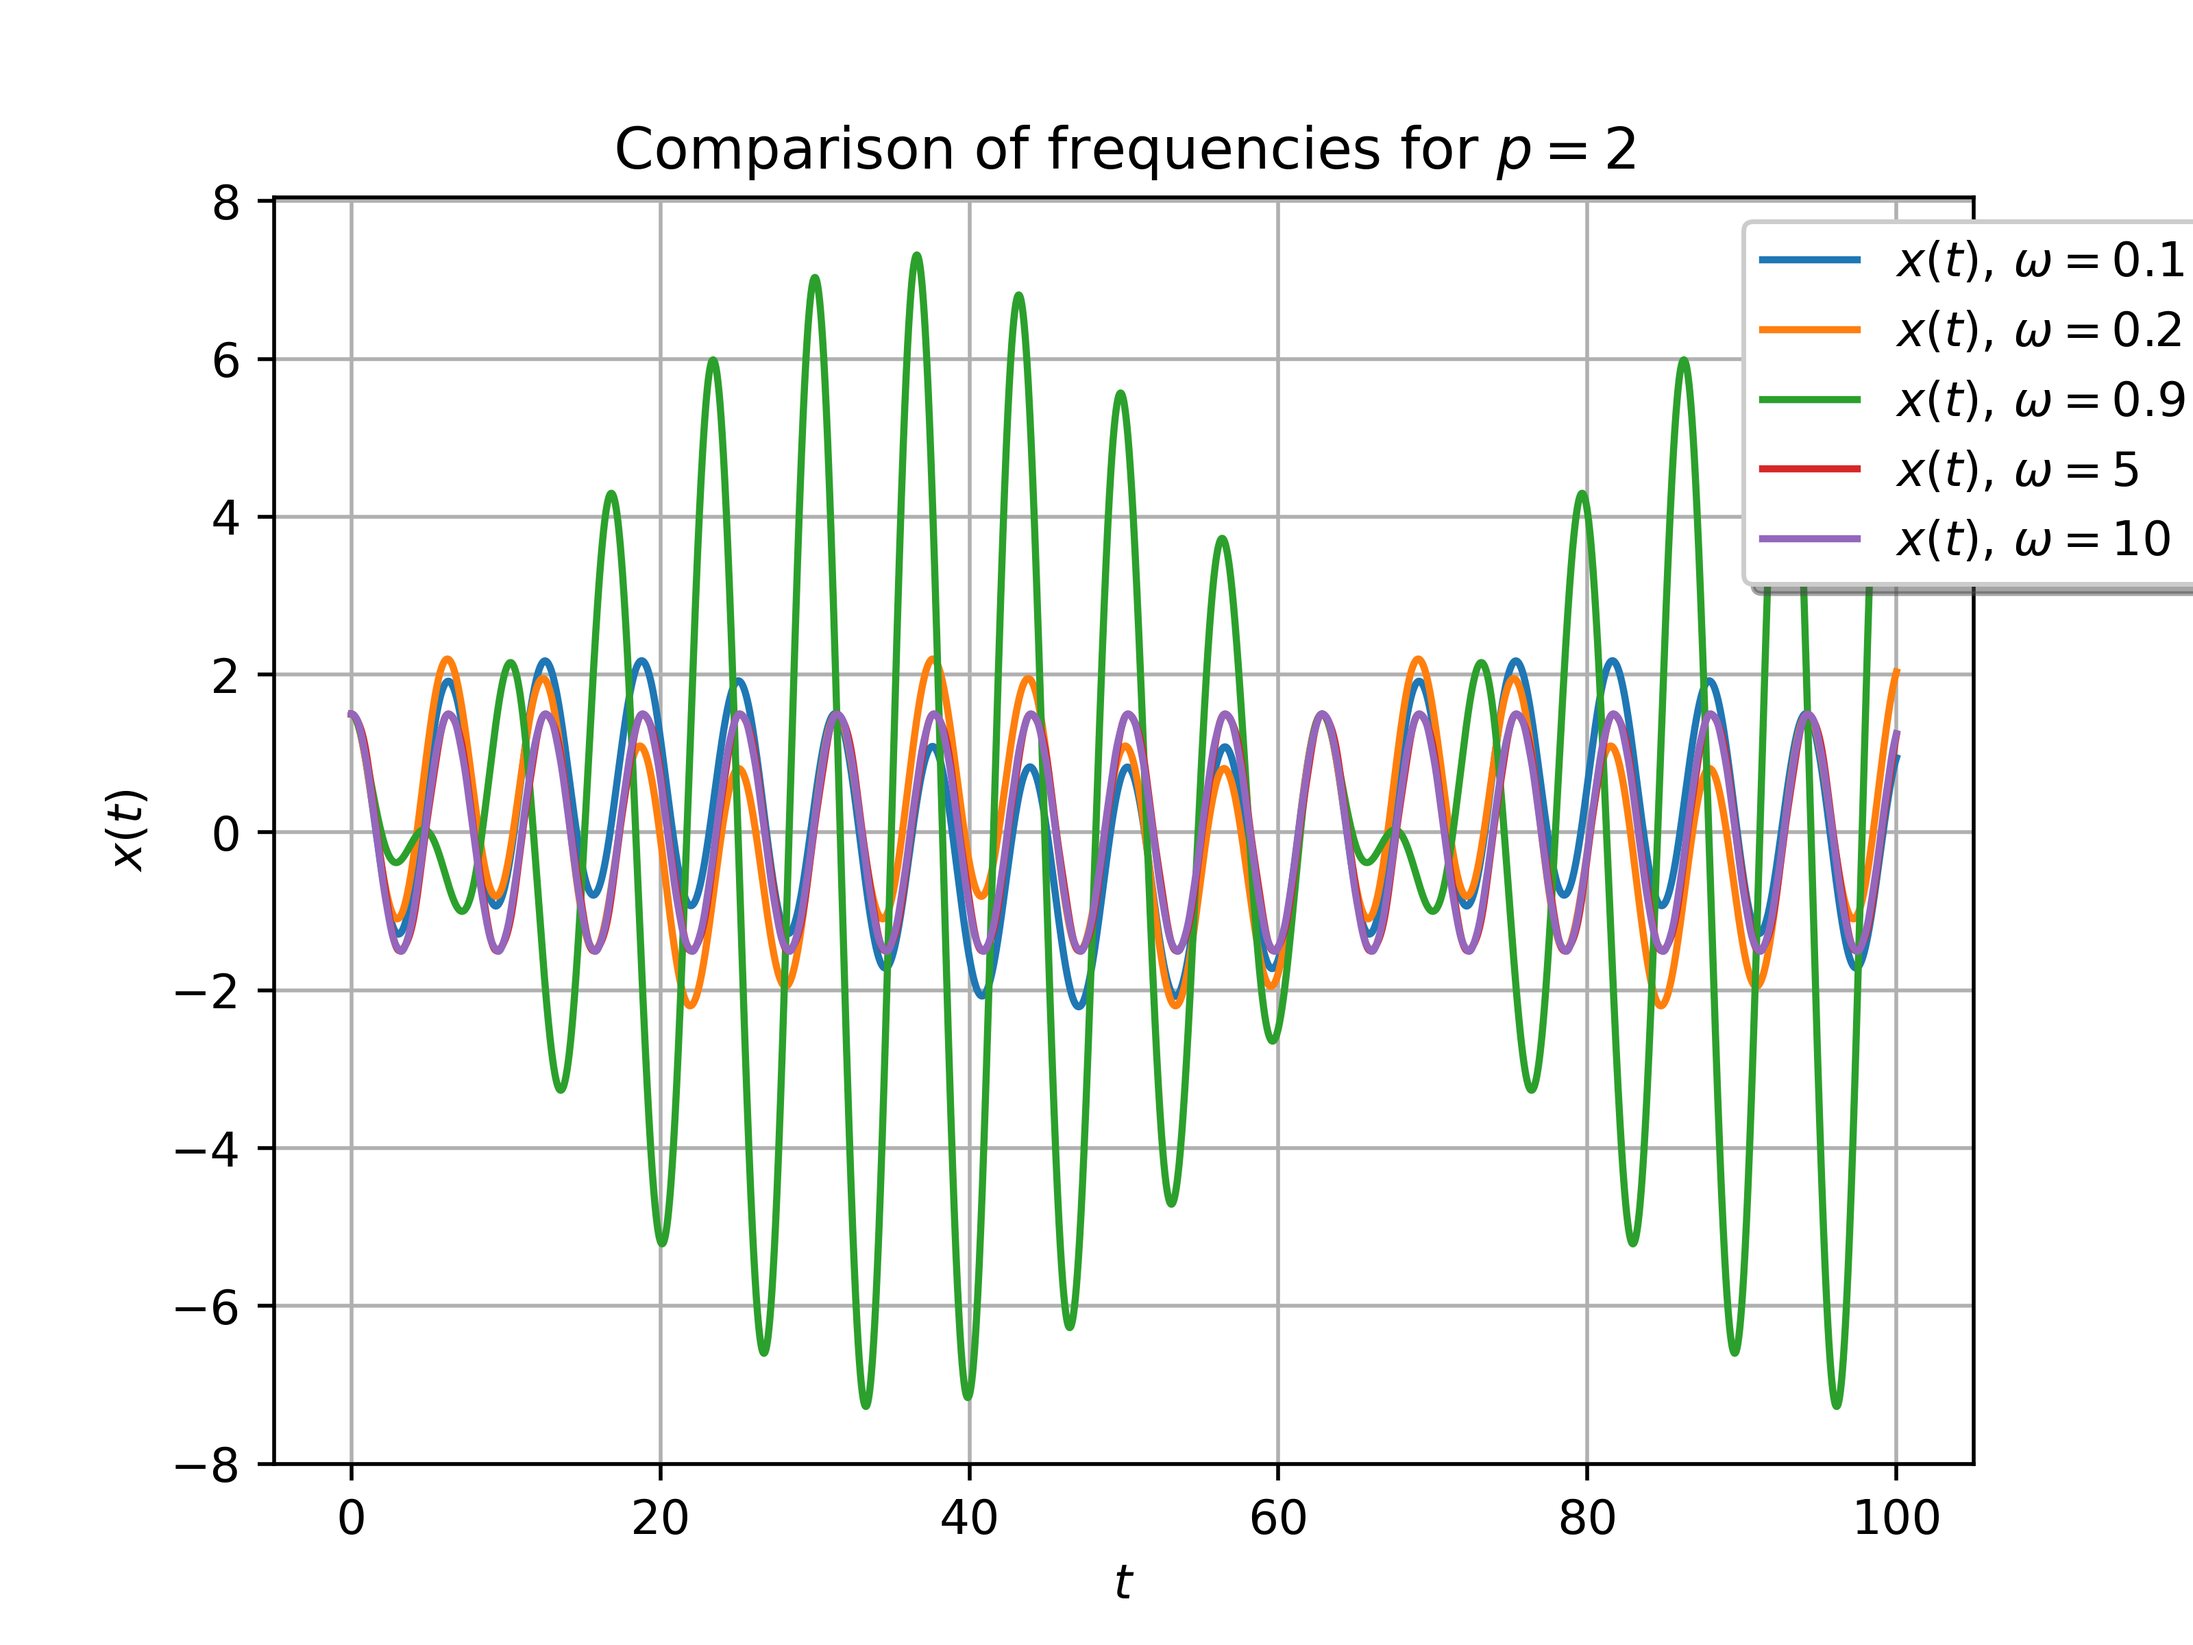
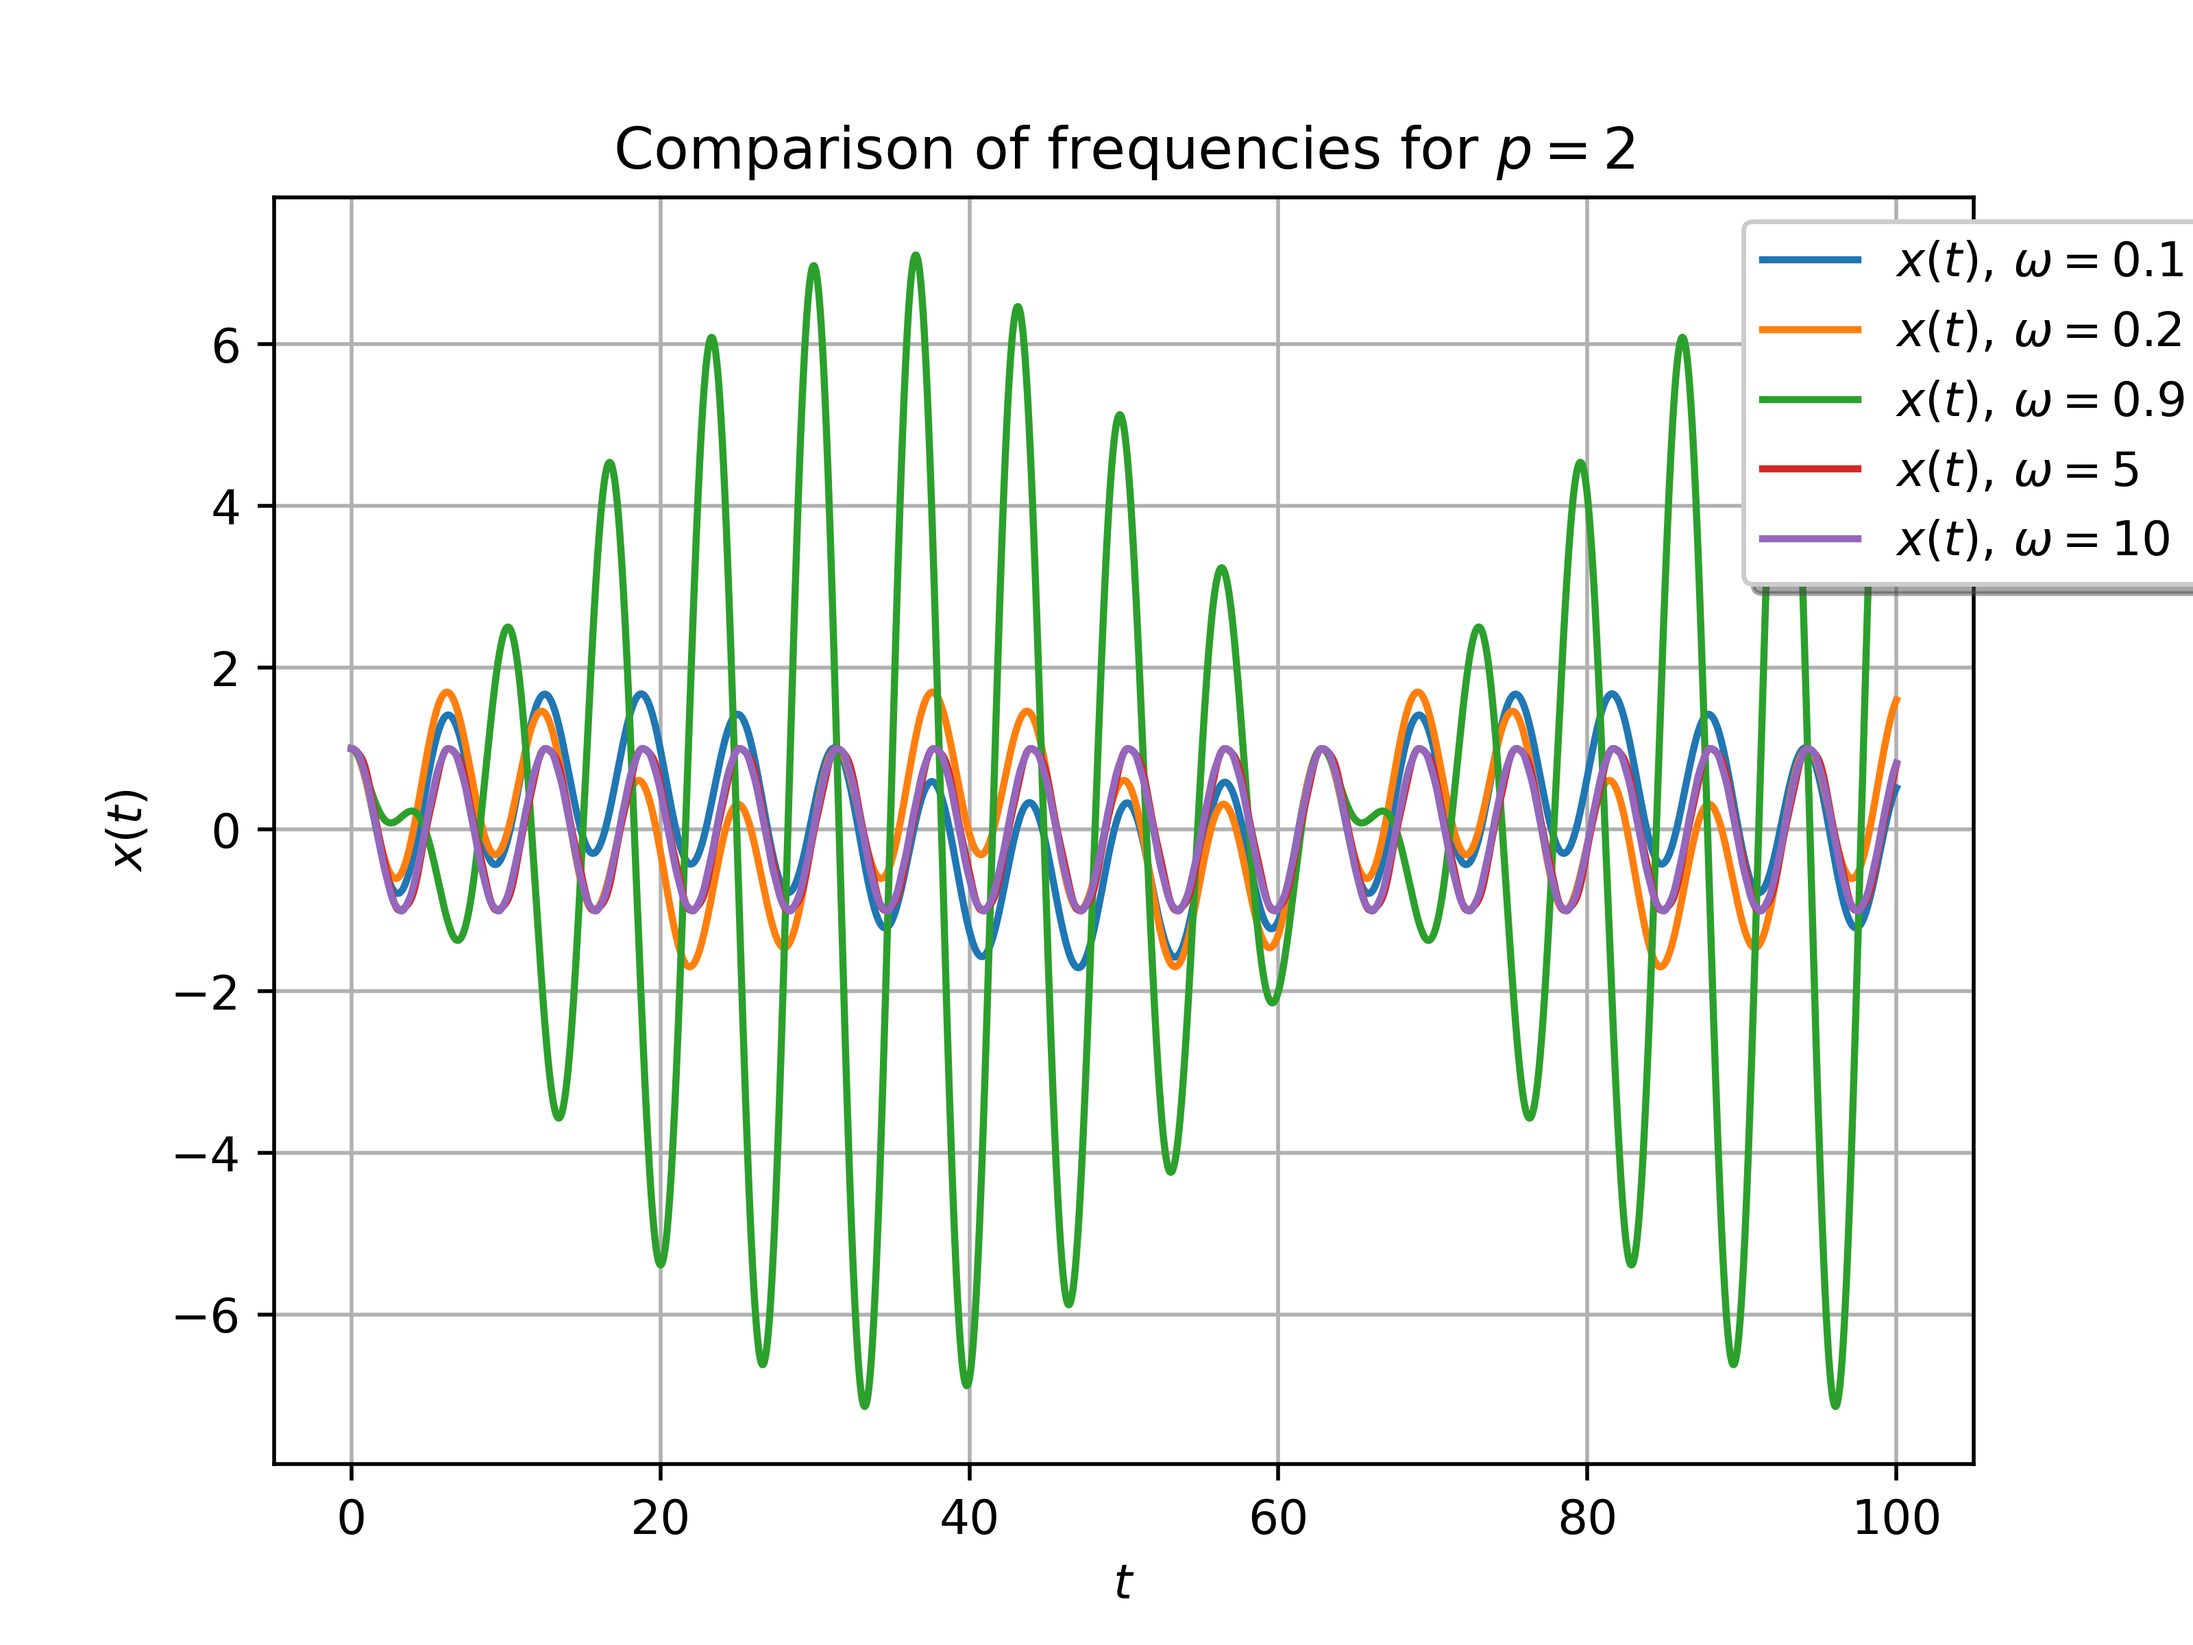
Final version

Changed region(s): [[0.0938, 0.1875, 0.9062, 0.8125], [0.0938, 0.875, 0.125, 0.9062]]

diff --git a/POMShw/main.py b/POMShw/main.py
@@ -176,7 +176,7 @@ def model3(u, t, m, k, p, o, F_0):
     dzdt = [y, (F_0/m)*np.sin(o*t)-(k/m)*x**(p-1)]  # System of first order differential equations [y, y'] Where y=x'
     return dzdt
 
-y0 = [1.5, 0]
+y0 = [1, 0]
 F = [1,20,50,200]
 
 for o in O:
@@ -257,48 +257,51 @@ def model_friction(u, t, m, k, p, o, F_0, b):
     dzdt = [y, (F_0/m)*np.sin(o*t)-(k/m)*x**(p-1)- b*y]  # System of first order differential equations [y, y'] Where y=x'
     return dzdt
 
-B = [0.01, 1, 100] 
-O = np.linspace(1,10,1000)
-
+B = [0.01, 1, 100]
+O = np.linspace(0.1,10,1000)
+# Note: this loop takes about 2 hours to run
 for b in B:
-    amplitudes = [np.amax(odeint(model_friction, y0, t, args=(m, k, p1, o, f, b))[:,0]) for o in O]
+    amplitudes = [np.amax(odeint(model_friction, y0, np.linspace(0, 20000 * np.pi / o + 1, 100000), args=(m, k, p1, o, f, b))[:,0][90000:]) for o in O]
     plt.plot(O, amplitudes, label='$A(\omega), \, b = $' + str(b))
-
-plt.legend(loc='upper center', bbox_to_anchor=(1, 1),  shadow=True, ncol=1)
-plt.ylabel('$A(\omega)$')
-plt.xlabel('$\omega$')
-plt.grid()
-plt.title('The relationship between amplitude and frequency for different values of $b$')
-plt.savefig('q3_1.png', dpi=500)
-plt.close()
-
+    plt.legend(loc='upper center', bbox_to_anchor=(1, 1),  shadow=True, ncol=1)
+    plt.ylabel('$A(\omega)$')
+    plt.xlabel('$\omega$')
+    plt.grid()
+    plt.title('The relationship between amplitude and frequency for $b = $' + str(b))
+    plt.savefig('q3_1b_' + str(b) + '.png', dpi=500)
+    plt.close()
 # code for q3.2
+B = [0.01, 2, 100]
+print(o)
+o = 10
 f = 0.01
-for b in B:
-    sol_friction = odeint(model_friction, y0, t, args=(m, k, p1, o, f, b))
-    plt.plot(t, sol_friction[:, 0], label='$x(t), \, b = $' + str(b))
-
-plt.legend(loc='upper center', bbox_to_anchor=(1, 1),  shadow=True, ncol=1)
-plt.ylabel('$x(t)$')
-plt.xlabel('$\omega$')
-plt.grid()
-plt.title('The relationship between position and time for different values of $b, \, F_0=$'+str(f))
-plt.savefig('q3_2.png', dpi=500)
-plt.close()
-
-# code for 3.3
-F = [0.7, 7]
-for f in F:
+for p in [p1,p2]:
     for b in B:
-        sol_friction = odeint(model_friction, y0, t, args=(m, k, p1, o, f, b))
+        sol_friction = odeint(model_friction, y0, t, args=(m, k, p, o, f, b))
         plt.plot(t, sol_friction[:, 0], label='$x(t), \, b = $' + str(b))
 
     plt.legend(loc='upper center', bbox_to_anchor=(1, 1),  shadow=True, ncol=1)
     plt.ylabel('$x(t)$')
     plt.xlabel('$\omega$')
     plt.grid()
-    plt.title('The relationship between position and time for different values of $b, \, F_0=$'+str(f))
-    plt.savefig('q3_3_f_' +str(f)+'.png', dpi=500)
+    plt.title('$x(t)$ for different values of $b, \, F_0=$'+str(f) + '$, \,p= $ ' + str(p))
+    plt.savefig('q3_2_p_'+ str(p) +'.png', dpi=500)
     plt.close()
+
+# code for 3.3
+F = [1, 10]
+for p in [p1, p2]:
+    for f in F:
+        for b in B:
+            sol_friction = odeint(model_friction, y0, t, args=(m, k, p, o, f, b))
+            plt.plot(t, sol_friction[:, 0], label='$x(t), \, b = $' + str(b))
+
+        plt.legend(loc='upper center', bbox_to_anchor=(1, 1),  shadow=True, ncol=1)
+        plt.ylabel('$x(t)$')
+        plt.xlabel('$\omega$')
+        plt.grid()
+        plt.title('$x(t)$ for different values of $b, \, F_0=$'+str(f) + '$, \, p=$' + str(p))
+        plt.savefig('q3_3_f_' +str(f)+'p_' + str(p) + '.png', dpi=500)
+        plt.close()
 
 
